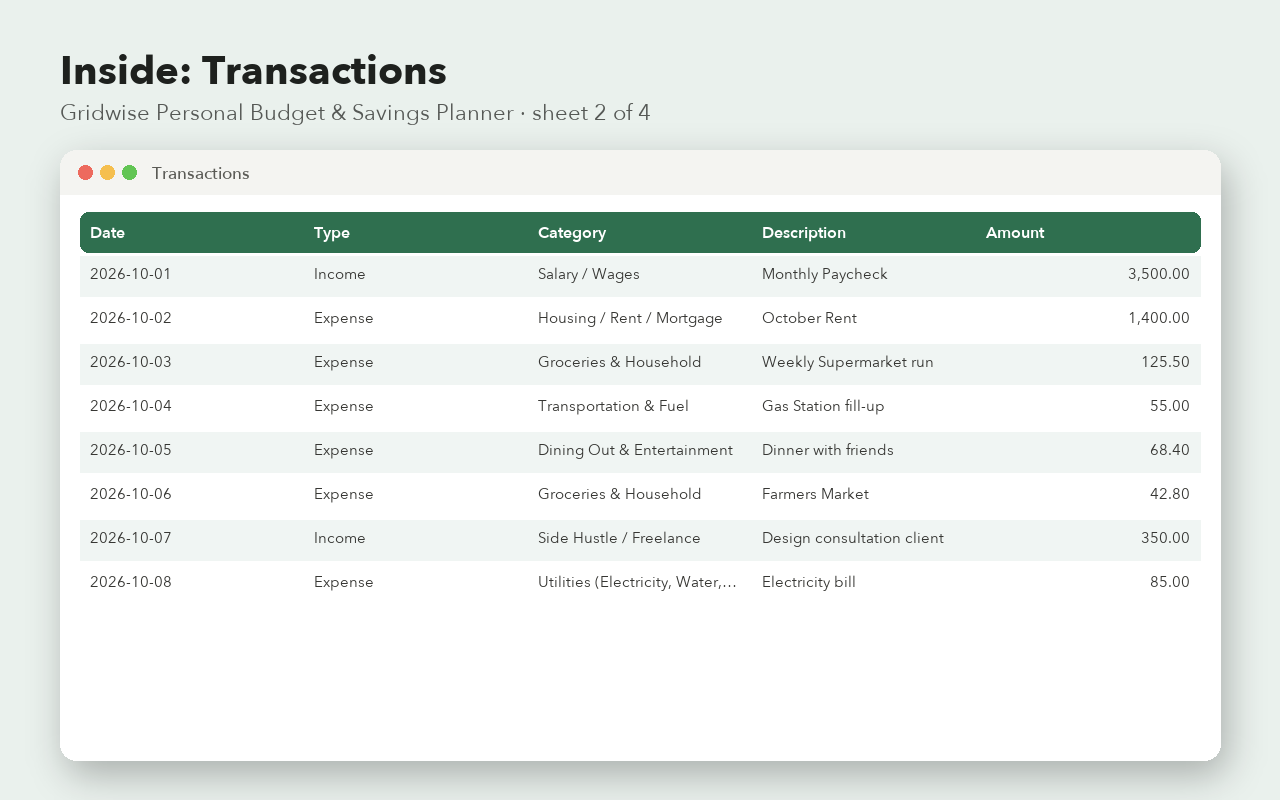
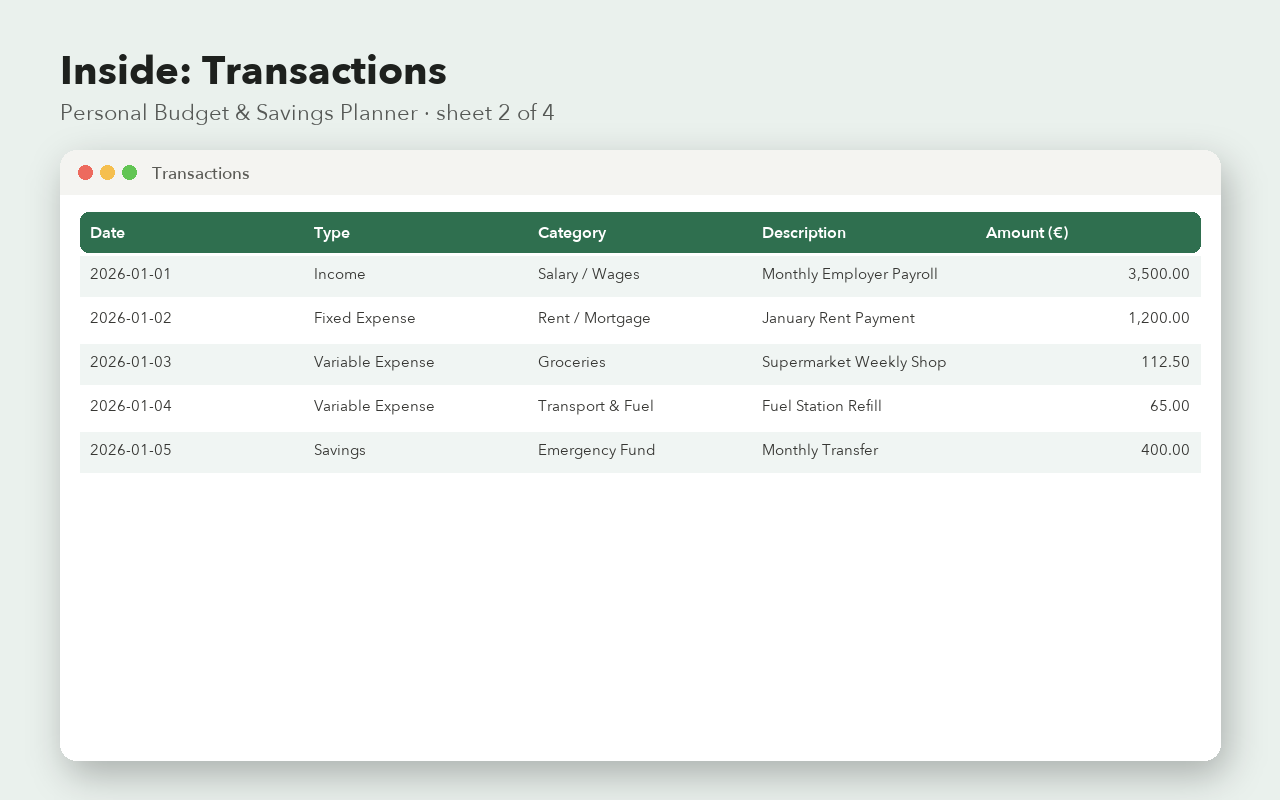
Site update 2026-10-10T16:01:37

diff --git a/p/airbnb-tracker.html b/p/airbnb-tracker.html
@@ -1,0 +1,95 @@
+<!doctype html><html lang='en'><head><meta charset='utf-8'><meta name='viewport' content='width=device-width,initial-scale=1'><title>Airbnb Host Financial &amp; Property Tracker | Vacation Rental Profit &amp; Expense Dash</title><meta name='description' content='Take full control of your short-term rental business with an automated multi-property income, expense, occupancy, and net profit tracker for Excel and Google Sheets.'><meta name="p:domain_verify" content="6e82cd9c35fde2ab80dd2d5f3aaab496"/><link rel='alternate' type='application/rss+xml' href='/feed.xml'><style>:root{--bg:#f7f7f4;--ink:#1e211e;--mute:#5d625d;--card:#fff;--line:#e3e4df;--accent:#2f6f4f}
+*{box-sizing:border-box}body{margin:0;background:var(--bg);color:var(--ink);font:17px/1.6 -apple-system,system-ui,"Segoe UI",sans-serif}
+main{max-width:1040px;margin:0 auto;padding:32px 16px 64px}header{display:flex;justify-content:space-between;align-items:center;margin-bottom:28px}
+header a{color:var(--ink);text-decoration:none;font-weight:700;font-size:20px}h1{font-size:34px;line-height:1.2;margin:0 0 12px}
+.grid{display:grid;grid-template-columns:repeat(auto-fill,minmax(300px,1fr));gap:20px}.card{background:var(--card);border:1px solid var(--line);border-radius:14px;overflow:hidden}
+.card img{width:100%;display:block}.card div{padding:14px 16px}.card a{color:var(--ink);text-decoration:none}
+.buy{display:inline-block;background:var(--accent);color:#fff!important;text-decoration:none;padding:14px 26px;border-radius:10px;font-weight:700;margin:16px 0}
+.hero img{width:100%;border-radius:14px;border:1px solid var(--line)}.gallery{display:grid;grid-template-columns:repeat(auto-fit,minmax(280px,1fr));gap:12px}
+.gallery img{width:100%;border-radius:10px;border:1px solid var(--line)}h2{margin-top:32px}.price{color:var(--mute);font-weight:600}footer{margin-top:48px;color:var(--mute);font-size:14px}</style></head><body><main><header><a href='/'>Gridwise</a><span class='price'>Spreadsheet templates for Excel &amp; Google Sheets</span></header><div class='hero'><img src='/img/airbnb-tracker-cover.png' alt='Airbnb Host Financial &amp; Property Tracker | Vacation Rental Profit &amp; Expense Dash'></div><h1>Airbnb Host Financial &amp; Property Tracker | Vacation Rental Profit &amp; Expense Dash</h1><p class='price'>€9.00 · instant download · Excel + Google Sheets</p><a class='buy' href='https://gridwiseco.gumroad.com/l/qzykon'>Get it for €9.00</a><h2>What's inside</h2><ul><li><b>Instructions</b></li><li><b>Setup</b> — Parameter, Value, Notes</li><li><b>Income Tracker</b> — Date, Property, Platform, Guest Name, Nights</li><li><b>Expense Tracker</b> — Date, Property, Category, Description, Vendor</li><li><b>Dashboard</b> — Metric, Value, Description</li></ul><ul><li>Track all Airbnb &amp; direct bookings</li><li>Automated monthly profit &amp; loss summary</li><li>Expense tracking &amp; maintenance logs</li></ul><h2>See every sheet</h2><div class='gallery'><img src='/img/airbnb-tracker-pv-1.png' alt='Preview 1' loading='lazy'><img src='/img/airbnb-tracker-pv-2.png' alt='Preview 2' loading='lazy'><img src='/img/airbnb-tracker-pv-3.png' alt='Preview 3' loading='lazy'><img src='/img/airbnb-tracker-pv-4.png' alt='Preview 4' loading='lazy'></div><h2>Details</h2><div><p><strong>Stop guessing your short-term rental profits and struggling with messy bookkeeping.</strong><br>Effortlessly track income across multiple properties, log operating expenses (cleaning, maintenance, platform fees), monitor occupancy rates, and generate clear tax-ready financial summaries.<br>⚡ <strong>Instant Download</strong> | Works natively with <strong>Microsoft Excel</strong> &amp; <strong>Google Sheets</strong> (No subscription required).</p><hr><h3>🌟 WHY YOU’LL LOVE THIS SPREADSHEET</h3><ul><li><strong>Multi-Property Support:</strong> Easily manage one or several rental properties in a single, centralized dashboard.</li><li><strong>Automated Profit Calculations:</strong> Enter your booking revenue and operating expenses once; built-in formulas instantly calculate net profit margins and ROI.</li><li><strong>Occupancy &amp; Performance Tracking:</strong> Monitor nights booked, vacancy rates, and average nightly rates (ADR) effortlessly.</li><li><strong>Tax Readiness:</strong> Categorize deductible expenses to make tax season stress-free.</li><li><strong>One-Time Purchase:</strong> No monthly software fees, lifetime personal use, unlimited re-use year after year.</li></ul><hr><h3>📊 WHAT’S INSIDE (5 CORE TABS)</h3><ol><li>📖 <strong>Instructions &amp; Quick Setup:</strong> Clear step-by-step start guide with helpful tips.</li><li>⚙ <strong>Setup &amp; Property Inventory:</strong> Centralized list for your property details, platforms, and expense categories.</li><li>💰 <strong>Income Tracker:</strong> Log guest bookings, cleaning fees, and platform payouts with monthly breakdowns.</li><li>📉 <strong>Expense Tracker:</strong> Record and categorize property-specific operating costs, repairs, and supplies.</li><li>📊 <strong>Annual Summary Dashboard:</strong> Visual KPIs, net profit charts, and property comparison metrics at a glance.</li></ol><hr><h3>📁 WHAT YOU WILL RECEIVE</h3><ul><li>1 x <strong>Microsoft Excel Master Template</strong> (<code>.xlsx</code>)</li><li>1 x <strong>Google Sheets Direct Access Link</strong> (Instant copy to your Drive)</li><li>1 x <strong>PDF Quick Start Guide</strong> (Step-by-step instructions with FAQ)</li><li>1 x <strong>Sample Data Copy</strong> (Pre-filled template for easy reference)</li></ul><hr><h3>💻 COMPATIBILITY &amp; TECHNICAL REQUIREMENTS</h3><ul><li>Works on <strong>Microsoft Excel</strong> (Excel 2016+, Office 365, Web version).</li><li>Works on <strong>Google Sheets</strong> (Free with any Google account).</li><li>Accessible on Desktop, Mac, PC, Tablet, and Mobile.</li></ul><hr><h3>⚡ HOW IT WORKS</h3><ol><li>Purchase &amp; instantly download your digital bundle.</li><li>Open the PDF guide to select your preferred format (Excel or Google Sheets).</li><li>Enter your property details and start tracking bookings, expenses, and net profits instantly!</li></ol><hr><h3>⚖ LEGAL, COMPLIANCE &amp; REFUND POLICY</h3><p><strong>Digital Delivery:</strong> This product is delivered entirely digitally via instant download and direct cloud links. No physical item will be shipped.<br><strong>Non-Refundable Policy:</strong> Due to the digital nature of downloadable files and spreadsheet templates, all sales are final. Once downloaded or accessed, orders cannot be refunded, canceled, or exchanged.<br><strong>Tool-Only Disclaimer:</strong> This spreadsheet is provided for informational and educational purposes only and does not constitute professional financial, investment, tax, or legal advice. Users are solely responsible for their own financial decisions.</p><hr><h3>❓ QUESTIONS &amp; SUPPORT</h3><p>Have questions or need assistance? We are here to help! Send us a message and we'll reply within 24 hours.</p></div><a class='buy' href='https://gridwiseco.gumroad.com/l/qzykon'>Get it for €9.00</a><h2>FAQ</h2><pre style='white-space:pre-wrap;font:inherit'># Frequently Asked Questions (FAQ) &amp; Support Guide
+## Airbnb Host Financial &amp; Property Tracker (Excel &amp; Google Sheets)
+**Business:** Gridwise (`gridwise`)  
+**Product:** Airbnb Host Financial &amp; Property Tracker (`products/airbnb-tracker/airbnb-tracker.xlsx`)
+
+---
+
+Welcome! This guide is designed to help you get up and running quickly with your new Airbnb &amp; Vacation Rental financial dashboard. Whether you are using Microsoft Excel or Google Sheets, this document covers setup, multi-property management, currency handling, and troubleshooting.
+
+---
+
+## Table of Contents
+1. [5-Minute Quick Setup](#1-5-minute-quick-setup)
+2. [Adding &amp; Managing Multiple Properties](#2-adding--managing-multiple-properties)
+3. [Handling Currency Conversions &amp; Formatting](#3-handling-currency-conversions--formatting)
+4. [Google Sheets Import &amp; Access Instructions](#4-google-sheets-import--access-instructions)
+5. [Common Error Resolution &amp; Troubleshooting](#5-common-error-resolution--troubleshooting)
+6. [Refund &amp; Support Policy](#6-refund--support-policy)
+
+---
+
+## 1. 5-Minute Quick Setup
+
+You can start tracking your short-term rental bookings and expenses in under 5 minutes by following these simple steps:
+
+1. **Locate Your Files:** After downloading your purchase, locate the master `.xlsx` file and the PDF Quick Start Guide.
+2. **Choose Your Platform:** 
+   - **Microsoft Excel:** Open `Gridwise_Airbnb_Host_Financial_Tracker.xlsx` directly on your desktop or Office 365 web app.
+   - **Google Sheets:** Open the Google Sheets access link provided in your PDF guide or upload the `.xlsx` file directly to your Google Drive.
+3. **Configure the Setup Tab:** Navigate to the **⚙ Setup &amp; Property Inventory** tab. Enter your property names, select your default currency symbol, and customize your expense categories (e.g., Cleaning, Maintenance, Platform Fees, Utilities).
+4. **Review Sample Data:** The spreadsheet comes pre-loaded with sample data so you can see how bookings, cleaning fees, and operating expenses interact. Once you are comfortable, you can clear the sample rows and enter your actual property data.
+5. **Start Logging:** Head over to the **💰 Income Tracker** and **📉 Expense Tracker** tabs to begin recording your guest bookings and operating costs. All annual summaries and key performance indicators (KPIs) update automatically!
+
+---
+
+## 2. Adding &amp; Managing Multiple Properties
+
+The Gridwise Airbnb Tracker is built specifically to handle single-unit hosts and multi-property portfolio managers alike.
+
+* **How to Add Properties:** In the **⚙ Setup &amp; Property Inventory** tab, list each of your properties in the designated property table (assigning each a unique Property ID or Nickname such as *Listing A - Sunset Villa* or *Listing B - Downtown Loft*).
+* **Tagging Bookings &amp; Expenses:** When recording entries in the Income and Expense trackers, use the dropdown menu in the &quot;Property&quot; column to associate each transaction with the correct property.
+* **Filtering &amp; Comparing:** The **📊 Annual Summary Dashboard** automatically aggregates totals across your entire portfolio while allowing you to view comparative performance metrics for each individual property.
+
+---
+
+## 3. Handling Currency Conversions &amp; Formatting
+
+Short-term rental hosts operating across borders or listing on multiple global platforms often need custom currency formatting.
+
+* **Changing Currency Symbols (Excel &amp; Google Sheets):**
+  1. Highlight the cells containing financial figures (Income, Expenses, Net Profit).
+  2. In Excel: Go to the **Home** tab, locate the **Number** group, and click the Currency dropdown ($ / € / £ / ¥) or select *Format Cells &gt; Currency*.
+  3. In Google Sheets: Go to the top menu and click **Format &gt; Number &gt; Currency** (or choose *Custom currency* for specialized symbols).
+* **Handling Multiple Currencies:** If you receive payouts in different currencies (e.g., USD for US listings and EUR for European listings), we recommend establishing a standardized base currency in the Setup tab and converting incoming payouts using your platform payout exchange rate before logging them into the tracker.
+
+---
+
+## 4. Google Sheets Import &amp; Access Instructions
+
+If you prefer cloud-based tracking via Google Sheets, follow these steps to import and set up your template:
+
+1. Open your Google Drive in any web browser.
+2. Click **New &gt; File upload** and select the `Gridwise_Airbnb_Host_Financial_Tracker.xlsx` file from your computer.
+3. Once uploaded, right-click the file in Google Drive, select **Open with &gt; Google Sheets**.
+4. *Alternative Method:* Open the direct cloud link provided in your PDF Quick Start guide and click **&quot;Make a Copy&quot;** to save the template directly to your personal Google Drive.
+5. **Formatting Check:** Verify that formulas calculate correctly upon opening. Google Sheets natively supports all built-in Excel formulas used in this template.
+
+---
+
+## 5. Common Error Resolution &amp; Troubleshooting
+
+### Q: I see `#REF!` or `#VALUE!` errors in summary cells. What happened?
+* **Cause:** This typically occurs if a formula reference was accidentally deleted or if a row was deleted while formulas were referencing it.
+* **Solution:** Press `Ctrl + Z` (or `Cmd + Z` on Mac) to undo the deletion. If the error persists, re-download a fresh copy of the master template from your purchase link.
+
+### Q: The dropdown menus for properties or expense categories are not working.
+* **Cause:** Data validation rules may have been altered during editing.
+* **Solution:** Select the affected cells, go to **Data &gt; Data Validation**, and ensure the source range points correctly to your property inventory list in the Setup tab.
+
+### Q: Why isn&#x27;t my net profit updating when I enter an expense?
+* **Cause:** Ensure that both the amount and a valid expense category/property have been selected. If automatic calculation is disabled in your Excel application, press `F9` to recalculate formulas.
+
+---
+
+## 6. Refund &amp; Support Policy
+
+### Digital Delivery &amp; Final Sa</pre><footer>Gridwise templates are tools, not financial, tax or legal advice. Made with the help of AI and quality-checked.</footer></main></body></html>

diff --git a/p/budget-planner.html b/p/budget-planner.html
@@ -6,7 +6,7 @@ header a{color:var(--ink);text-decoration:none;font-weight:700;font-size:20px}h1
 .card img{width:100%;display:block}.card div{padding:14px 16px}.card a{color:var(--ink);text-decoration:none}
 .buy{display:inline-block;background:var(--accent);color:#fff!important;text-decoration:none;padding:14px 26px;border-radius:10px;font-weight:700;margin:16px 0}
 .hero img{width:100%;border-radius:14px;border:1px solid var(--line)}.gallery{display:grid;grid-template-columns:repeat(auto-fit,minmax(280px,1fr));gap:12px}
-.gallery img{width:100%;border-radius:10px;border:1px solid var(--line)}h2{margin-top:32px}.price{color:var(--mute);font-weight:600}footer{margin-top:48px;color:var(--mute);font-size:14px}</style></head><body><main><header><a href='/'>Gridwise</a><span class='price'>Spreadsheet templates for Excel &amp; Google Sheets</span></header><div class='hero'><img src='/img/budget-planner-cover.png' alt='Personal Budget &amp; Savings Planner | Monthly Household Budget Spreadsheet'></div><h1>Personal Budget &amp; Savings Planner | Monthly Household Budget Spreadsheet</h1><p class='price'>Temporarily unavailable — being improved · instant download · Excel + Google Sheets</p><h2>What's inside</h2><ul><li><b>Instructions</b></li><li><b>Setup</b> — Category Type, Category Name, Monthly Budget</li><li><b>Transactions</b> — Date, Type, Category, Description, Amount</li><li><b>Dashboard</b> — Metric, Amount</li></ul><ul><li>Zero math required (automated formulas)</li><li>Clean &amp; aesthetic monthly dashboard</li><li>Beginner-friendly step-by-step guide</li></ul><h2>See every sheet</h2><div class='gallery'><img src='/img/budget-planner-pv-1.png' alt='Preview 1' loading='lazy'><img src='/img/budget-planner-pv-2.png' alt='Preview 2' loading='lazy'><img src='/img/budget-planner-pv-3.png' alt='Preview 3' loading='lazy'></div><h2>Details</h2><div><p><strong>Stop wondering where your money goes. Take control of your household finances and build real savings with an automated, easy-to-use budget planner.</strong><br>Effortlessly log monthly income, track variable expenses across customized categories, and watch your savings goals grow with automated visual dashboards.<br>⚡ <strong>Instant Download</strong> | Works natively with <strong>Microsoft Excel</strong> &amp; <strong>Google Sheets</strong> (No subscription required).</p><hr><h3>🌟 WHY YOU’LL LOVE THIS SPREADSHEET</h3><ul><li><strong>Automated Monthly Calculations:</strong> Enter your income and expenses once; built-in formulas instantly calculate totals, remaining balances, and savings rates.</li><li><strong>Customizable Categories:</strong> Tailor income streams and expense categories to match your exact lifestyle.</li><li><strong>Clean &amp; Motivating Dashboard:</strong> Visual progress charts and breakdown tables keep you informed and motivated all month long.</li><li><strong>One-Time Purchase:</strong> No monthly software fees, lifetime personal use, unlimited re-use year after year.</li></ul><hr><h3>📊 WHAT’S INSIDE (5 CORE TABS)</h3><ol><li>📖 <strong>Instructions &amp; Quick Setup:</strong> Clear step-by-step start guide with helpful tips.</li><li>⚙ <strong>Setup &amp; Categories:</strong> Centralized customization for your accounts and budget categories.</li><li>💰 <strong>Income Tracker:</strong> Log salaries, side-hustle revenue, and passive income streams.</li><li>📉 <strong>Expense Tracker:</strong> Record daily spending, bills, and fixed obligations.</li><li>📊 <strong>Monthly Summary Dashboard:</strong> Visual KPIs, cash flow breakdown, and savings progress at a glance.</li></ol><hr><h3>📁 WHAT YOU WILL RECEIVE</h3><ul><li>1 x <strong>Microsoft Excel Master Template</strong> (<code>.xlsx</code>)</li><li>1 x <strong>Google Sheets Direct Access Link</strong> (Instant copy to your Drive)</li><li>1 x <strong>PDF Quick Start Guide</strong> (Step-by-step instructions with FAQ)</li><li>1 x <strong>Sample Data Copy</strong> (Pre-filled template for easy reference)</li></ul><hr><h3>💻 COMPATIBILITY &amp; TECHNICAL REQUIREMENTS</h3><ul><li>Works on <strong>Microsoft Excel</strong> (Excel 2016+, Office 365, Web version).</li><li>Works on <strong>Google Sheets</strong> (Free with any Google account).</li><li>Accessible on Desktop, Mac, PC, Tablet, and Mobile.</li></ul><hr><h3>⚡ HOW IT WORKS</h3><ol><li>Purchase &amp; instantly download your digital bundle.</li><li>Open the PDF guide to select your preferred format (Excel or Google Sheets).</li><li>Enter your monthly figures and take charge of your financial future!</li></ol><hr><h3>⚖ LEGAL, COMPLIANCE &amp; REFUND POLICY</h3><p><strong>Digital Delivery:</strong> This product is delivered entirely digitally via instant download and direct cloud links. No physical item will be shipped.<br><strong>Non-Refundable Policy:</strong> Due to the digital nature of downloadable files and spreadsheet templates, all sales are final. Once downloaded or accessed, orders cannot be refunded, canceled, or exchanged.<br><strong>Tool-Only Disclaimer:</strong> This spreadsheet is provided for informational and educational purposes only and does not constitute professional financial, investment, tax, or legal advice. Users are solely responsible for their own financial decisions.</p><hr><h3>❓ QUESTIONS &amp; SUPPORT</h3><p>Have questions or need assistance? We are here to help! Send us a message and we'll reply within 24 hours.</p></div><h2>FAQ</h2><pre style='white-space:pre-wrap;font:inherit'># Frequently Asked Questions — Personal Budget &amp; Savings Planner
+.gallery img{width:100%;border-radius:10px;border:1px solid var(--line)}h2{margin-top:32px}.price{color:var(--mute);font-weight:600}footer{margin-top:48px;color:var(--mute);font-size:14px}</style></head><body><main><header><a href='/'>Gridwise</a><span class='price'>Spreadsheet templates for Excel &amp; Google Sheets</span></header><div class='hero'><img src='/img/budget-planner-cover.png' alt='Personal Budget &amp; Savings Planner | Monthly Household Budget Spreadsheet'></div><h1>Personal Budget &amp; Savings Planner | Monthly Household Budget Spreadsheet</h1><p class='price'>Temporarily unavailable — being improved · instant download · Excel + Google Sheets</p><h2>What's inside</h2><ul><li><b>Instructions</b></li><li><b>Setup</b> — Category Type, Category Name, Monthly Budget Target (€)</li><li><b>Transactions</b> — Date, Type, Category, Description, Amount (€)</li><li><b>Dashboard</b> — Metric, Amount (€), Notes</li></ul><ul><li>Zero math required (automated formulas)</li><li>Clean &amp; aesthetic monthly dashboard</li><li>Beginner-friendly step-by-step guide</li></ul><h2>See every sheet</h2><div class='gallery'><img src='/img/budget-planner-pv-1.png' alt='Preview 1' loading='lazy'><img src='/img/budget-planner-pv-2.png' alt='Preview 2' loading='lazy'><img src='/img/budget-planner-pv-3.png' alt='Preview 3' loading='lazy'></div><h2>Details</h2><div><p><strong>Stop wondering where your money goes. Take control of your household finances and build real savings with an automated, easy-to-use budget planner.</strong><br>Effortlessly log monthly income, track variable expenses across customized categories, and watch your savings goals grow with automated visual dashboards.<br>⚡ <strong>Instant Download</strong> | Works natively with <strong>Microsoft Excel</strong> &amp; <strong>Google Sheets</strong> (No subscription required).</p><hr><h3>🌟 WHY YOU’LL LOVE THIS SPREADSHEET</h3><ul><li><strong>Automated Monthly Calculations:</strong> Enter your income and expenses once; built-in formulas instantly calculate totals, remaining balances, and savings rates.</li><li><strong>Customizable Categories:</strong> Tailor income streams and expense categories to match your exact lifestyle.</li><li><strong>Clean &amp; Motivating Dashboard:</strong> Visual progress charts and breakdown tables keep you informed and motivated all month long.</li><li><strong>One-Time Purchase:</strong> No monthly software fees, lifetime personal use, unlimited re-use year after year.</li></ul><hr><h3>📊 WHAT’S INSIDE (5 CORE TABS)</h3><ol><li>📖 <strong>Instructions &amp; Quick Setup:</strong> Clear step-by-step start guide with helpful tips.</li><li>⚙ <strong>Setup &amp; Categories:</strong> Centralized customization for your accounts and budget categories.</li><li>💰 <strong>Income Tracker:</strong> Log salaries, side-hustle revenue, and passive income streams.</li><li>📉 <strong>Expense Tracker:</strong> Record daily spending, bills, and fixed obligations.</li><li>📊 <strong>Monthly Summary Dashboard:</strong> Visual KPIs, cash flow breakdown, and savings progress at a glance.</li></ol><hr><h3>📁 WHAT YOU WILL RECEIVE</h3><ul><li>1 x <strong>Microsoft Excel Master Template</strong> (<code>.xlsx</code>)</li><li>1 x <strong>Google Sheets Direct Access Link</strong> (Instant copy to your Drive)</li><li>1 x <strong>PDF Quick Start Guide</strong> (Step-by-step instructions with FAQ)</li><li>1 x <strong>Sample Data Copy</strong> (Pre-filled template for easy reference)</li></ul><hr><h3>💻 COMPATIBILITY &amp; TECHNICAL REQUIREMENTS</h3><ul><li>Works on <strong>Microsoft Excel</strong> (Excel 2016+, Office 365, Web version).</li><li>Works on <strong>Google Sheets</strong> (Free with any Google account).</li><li>Accessible on Desktop, Mac, PC, Tablet, and Mobile.</li></ul><hr><h3>⚡ HOW IT WORKS</h3><ol><li>Purchase &amp; instantly download your digital bundle.</li><li>Open the PDF guide to select your preferred format (Excel or Google Sheets).</li><li>Enter your monthly figures and take charge of your financial future!</li></ol><hr><h3>⚖ LEGAL, COMPLIANCE &amp; REFUND POLICY</h3><p><strong>Digital Delivery:</strong> This product is delivered entirely digitally via instant download and direct cloud links. No physical item will be shipped.<br><strong>Non-Refundable Policy:</strong> Due to the digital nature of downloadable files and spreadsheet templates, all sales are final. Once downloaded or accessed, orders cannot be refunded, canceled, or exchanged.<br><strong>Tool-Only Disclaimer:</strong> This spreadsheet is provided for informational and educational purposes only and does not constitute professional financial, investment, tax, or legal advice. Users are solely responsible for their own financial decisions.</p><hr><h3>❓ QUESTIONS &amp; SUPPORT</h3><p>Have questions or need assistance? We are here to help! Send us a message and we'll reply within 24 hours.</p></div><h2>FAQ</h2><pre style='white-space:pre-wrap;font:inherit'># Frequently Asked Questions — Personal Budget &amp; Savings Planner
 
 ### 1. Does this template work in both Excel and Google Sheets?
 Yes! You can use this template in Microsoft Excel (desktop or web) as well as Google Sheets. For Google Sheets, simply upload the `.xlsx` file into your Google Drive and open it. All formulas and formatting are fully compatible with both platforms.

diff --git a/index.html b/index.html
@@ -6,4 +6,4 @@ header a{color:var(--ink);text-decoration:none;font-weight:700;font-size:20px}h1
 .card img{width:100%;display:block}.card div{padding:14px 16px}.card a{color:var(--ink);text-decoration:none}
 .buy{display:inline-block;background:var(--accent);color:#fff!important;text-decoration:none;padding:14px 26px;border-radius:10px;font-weight:700;margin:16px 0}
 .hero img{width:100%;border-radius:14px;border:1px solid var(--line)}.gallery{display:grid;grid-template-columns:repeat(auto-fit,minmax(280px,1fr));gap:12px}
-.gallery img{width:100%;border-radius:10px;border:1px solid var(--line)}h2{margin-top:32px}.price{color:var(--mute);font-weight:600}footer{margin-top:48px;color:var(--mute);font-size:14px}</style></head><body><main><header><a href='/'>Gridwise</a><span class='price'>Spreadsheet templates for Excel &amp; Google Sheets</span></header><h1>Spreadsheet templates that do the math for you</h1><p>Clean, quality-checked templates for Excel and Google Sheets.</p><p><b>New templates are being finished and quality-checked — check back soon.</b></p><footer>Gridwise templates are tools, not financial, tax or legal advice. Made with the help of AI and quality-checked.</footer></main></body></html>
+.gallery img{width:100%;border-radius:10px;border:1px solid var(--line)}h2{margin-top:32px}.price{color:var(--mute);font-weight:600}footer{margin-top:48px;color:var(--mute);font-size:14px}</style></head><body><main><header><a href='/'>Gridwise</a><span class='price'>Spreadsheet templates for Excel &amp; Google Sheets</span></header><h1>Spreadsheet templates that do the math for you</h1><p>Clean, quality-checked templates for Excel and Google Sheets.</p><div class='grid'><div class='card'><a href='/p/airbnb-tracker.html'><img src='/img/airbnb-tracker-cover.png' alt='Airbnb Host Financial &amp; Property Tracker | Vacation Rental Profit &amp; Expense Dash'><div><b>Airbnb Host Financial &amp; Property Tracker | Vacation Rental Profit &amp; Expense Dash</b><br><span class='price'>€9.00</span></div></a></div></div><footer>Gridwise templates are tools, not financial, tax or legal advice. Made with the help of AI and quality-checked.</footer></main></body></html>
